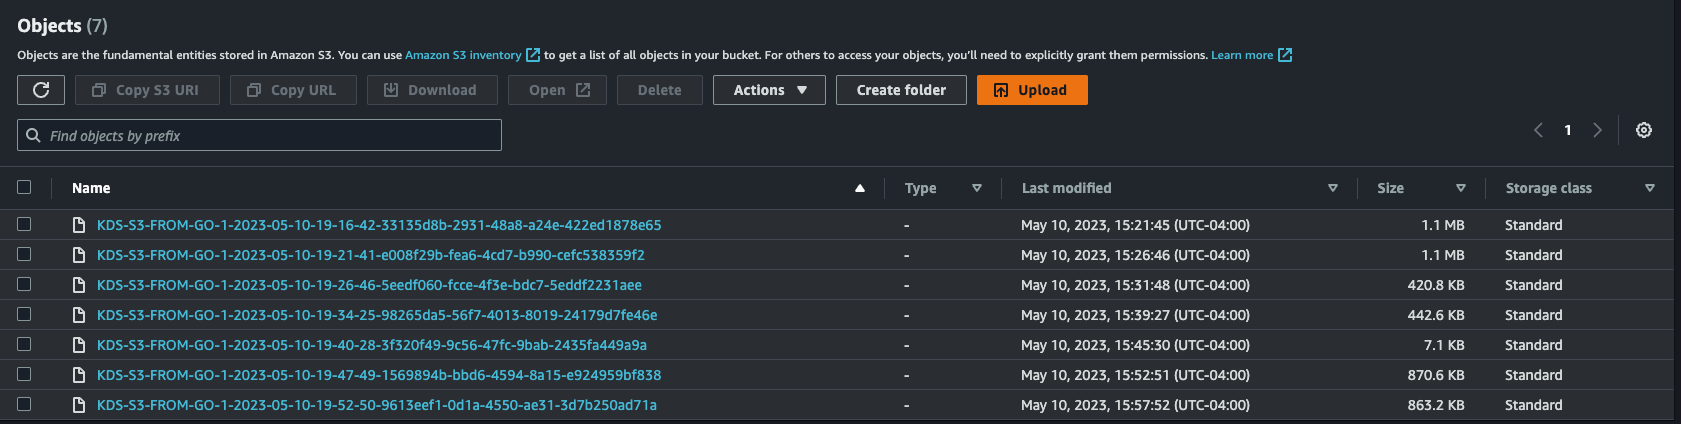
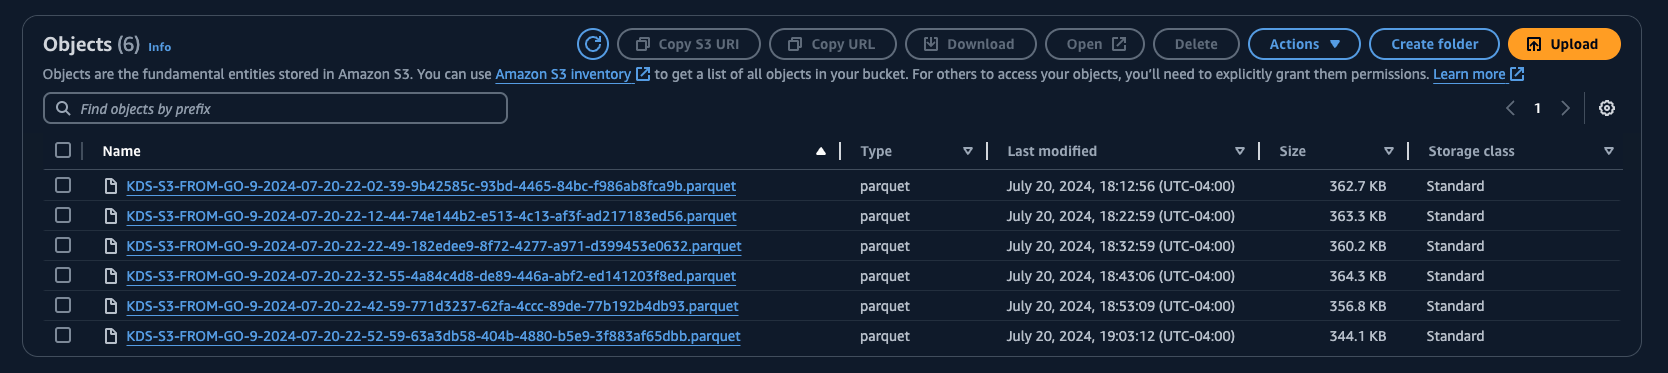
update readme

diff --git a/README.md b/README.md
@@ -1,4 +1,4 @@
-## mqtt-to-kinesis
+## Streaming MQTT data to Kinesis Data Streams
 
 The idea behind  this service is to run it as a container on the edge, subscribe to a topic from MQTT and then batch those payloads up and send them to kinesis data stream --> firehose --> datalake
 
@@ -53,43 +53,9 @@ below is an example of what that file could look like
  STDOUT=true
 ```
 
-typical STDOUT looks like
 
-```console
-key: homeassistant/sensor/eisbar_temperatura_batteria_motore/state
-value: 21.1
-key: homeassistant/sensor/eisbar_uptime_human_readable/state
-value: 42s
-key: homeassistant/sensor/eisbar_uptime_sensor/state
-value: 42
-key: homeassistant/sensor/eisbar_uptime_human_readable/state
-value: 42s
-key: homeassistant/sensor/eisbar_tensione_batteria_servizi/state
-value: 11.98
-key: homeassistant/sensor/eisbar_wifi/state
-value: -48
-key: homeassistant/sensor/eisbar_uptime_human_readable/state
-value: 44s
-key: homeassistant/sensor/eisbar_uptime_sensor/state
-value: 44
-key: homeassistant/sensor/eisbar_tensione_pannelli_solari/state
-value: 1.50
-key: homeassistant/sensor/eisbar_tensione_batteria_motore/state
-value: 1.50
-key: homeassistant/sensor/eisbar_temperatura/state
-value: 21.4
-key: homeassistant/sensor/eisbar_umidit/state
-value: 68.9
-key: homeassistant/sensor/eisbar_uptime_human_readable/state
-value: 46s
-key: homeassistant/sensor/eisbar_uptime_sensor/state
-value: 46
-2023/05/11 07:46:19 flushing records reason=interval,  records=1
-2023/05/11 07:46:19 Result[0] ShardId=shardId-000000000001,  SequenceNumber=49639767612638592089930656974715882307650445660919955474
-```
+S3 Firehose Delivery in Parquet format
+![S3 Files ](img/s3.png)
 
-Kinesis Data Stream view
-![Kinesis Data Steam Data Viewer](img/Kinesis-Data.png)
-
-And you can use AWS Kinesis Firehose to send this to S3 and transform the format if you like
-![S3](img/s3.png)
+Once you have this data in S3, you can use a Glue crawler to craw the data, and then use Athena as a SQL workbench to query it...
+![Athena](img/athena-2.png)
